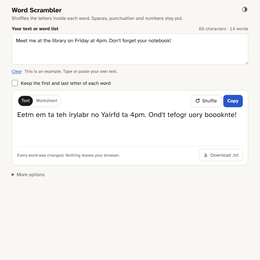
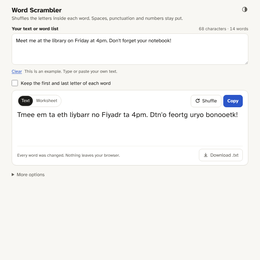
Word Scrambler: no capital mid-word after an apostrophe, readable phone worksheet, shorter result box on phones
Claude-Session: https://claude.ai/code/session_01Gy1MJwLqB1SwDSjRfufXEF

Changed region(s): [[0.0615, 0.4308, 0.9231, 0.4615]]

diff --git a/tools/online_word_scrambler.html b/tools/online_word_scrambler.html
@@ -72,7 +72,7 @@ details.ans summary{font-size:.88rem}
 ol.sheet{margin:0;padding:0;list-style:none;columns:2 230px;column-gap:32px;font-size:1.25rem}
 ol.sheet li{display:flex;gap:10px;break-inside:avoid;padding:4px 0;align-items:baseline}
 .n{color:var(--muted);font:.8rem system-ui,sans-serif;font-variant-numeric:tabular-nums;min-width:1.9em;text-align:right}
-ol.sheet .p{min-width:7.5em}
+ol.sheet .p{min-width:7.5em;overflow-wrap:normal;white-space:nowrap}
 ol.sheet .blank{width:110px;flex:none;border-bottom:1px solid var(--line);align-self:end;margin-bottom:6px}
 .key{padding:4px 0 2px;font-size:.92rem;color:var(--muted)}
 .key b{color:var(--ink);font-size:.8rem;text-transform:uppercase;letter-spacing:.06em;margin-right:6px}
@@ -95,16 +95,16 @@ main::after{content:"";display:block;height:40px}
   .sub{font-size:.85rem}
   .btn{padding:7px 9px}
   textarea{height:88px;min-height:72px}
-  #result{font-size:1.25rem;min-height:4.7em}
+  #result{font-size:1.25rem;min-height:4.7em;max-height:42vh}
   .btn{padding:7px 10px}
 }
 .btn:disabled,.btn.primary:disabled{background:var(--soft);border-color:var(--line);color:var(--muted);font-weight:400}
 .busy{flex-wrap:wrap}.busy .btn{white-space:nowrap}
 details.ans summary{color:var(--ink);font-weight:700}
 @media (max-width:520px){
-  ol.sheet{columns:2 130px;column-gap:16px;font-size:1.08rem}
-  ol.sheet .p{min-width:0}
-  ol.sheet .blank{display:none}
+  ol.sheet{columns:1;font-size:1.12rem}
+  ol.sheet li{padding:2px 0}
+  ol.sheet .blank{width:auto;flex:1;max-width:140px}
   label.field{flex-wrap:wrap}
 }
 @media (prefers-reduced-motion:reduce){#result .fl{animation:none}.toast{transition:none}}
@@ -213,9 +213,10 @@ details.ans summary{color:var(--ink);font-weight:700}
     var apos = /^['\u2019\u02BC]$/;
     for (var i = 0; i < gs.length; i++) {
       var g = gs[i], k = kind(g), boundary;
-      // An apostrophe between two letters belongs to the word ("doesn't", "O'Brien"): it keeps
+      // An apostrophe between two letters belongs to the word ("doesn't", "l'été"): it keeps
       // its place, the letters around it mix.
-      var inner = k === 'p' && apos.test(g) && i > 0 && kind(gs[i - 1]) === 'w' && i + 1 < gs.length && kind(gs[i + 1]) === 'w';
+      var inner = k === 'p' && apos.test(g) && i > 0 && kind(gs[i - 1]) === 'w' && i + 1 < gs.length && kind(gs[i + 1]) === 'w' &&
+        !(gs[i + 1] !== gs[i + 1].toLowerCase() && gs[i + 1] === gs[i + 1].toUpperCase()); // O'Brien: O and Brien are two words
       if (o.wholeToken) boundary = k === 's';
       else boundary = fixed(k) && !inner;
       if (locked && locked[i]) boundary = true;
@@ -381,7 +382,7 @@ details.ans summary{color:var(--ink);font-weight:700}
       var items = C.worksheetFromParts(parts);
       lastOut = C.worksheetText(items);
       var ol = document.createElement('ol'); ol.className = 'sheet';
-      var det = document.createElement('details'); det.className = 'ans'; det.innerHTML = '<summary>Answer key <span style="font-weight:400;color:var(--muted)">· copied and downloaded with the sheet</span></summary>';
+      var det = document.createElement('details'); det.className = 'ans'; det.open = true; det.innerHTML = '<summary>Answer key <span style="font-weight:400;color:var(--muted)">(copied too)</span></summary>';
       var key = document.createElement('div'); key.className = 'key'; det.appendChild(key);
       items.slice(0, 3000).forEach(function (x, i) {
         var li = document.createElement('li');
